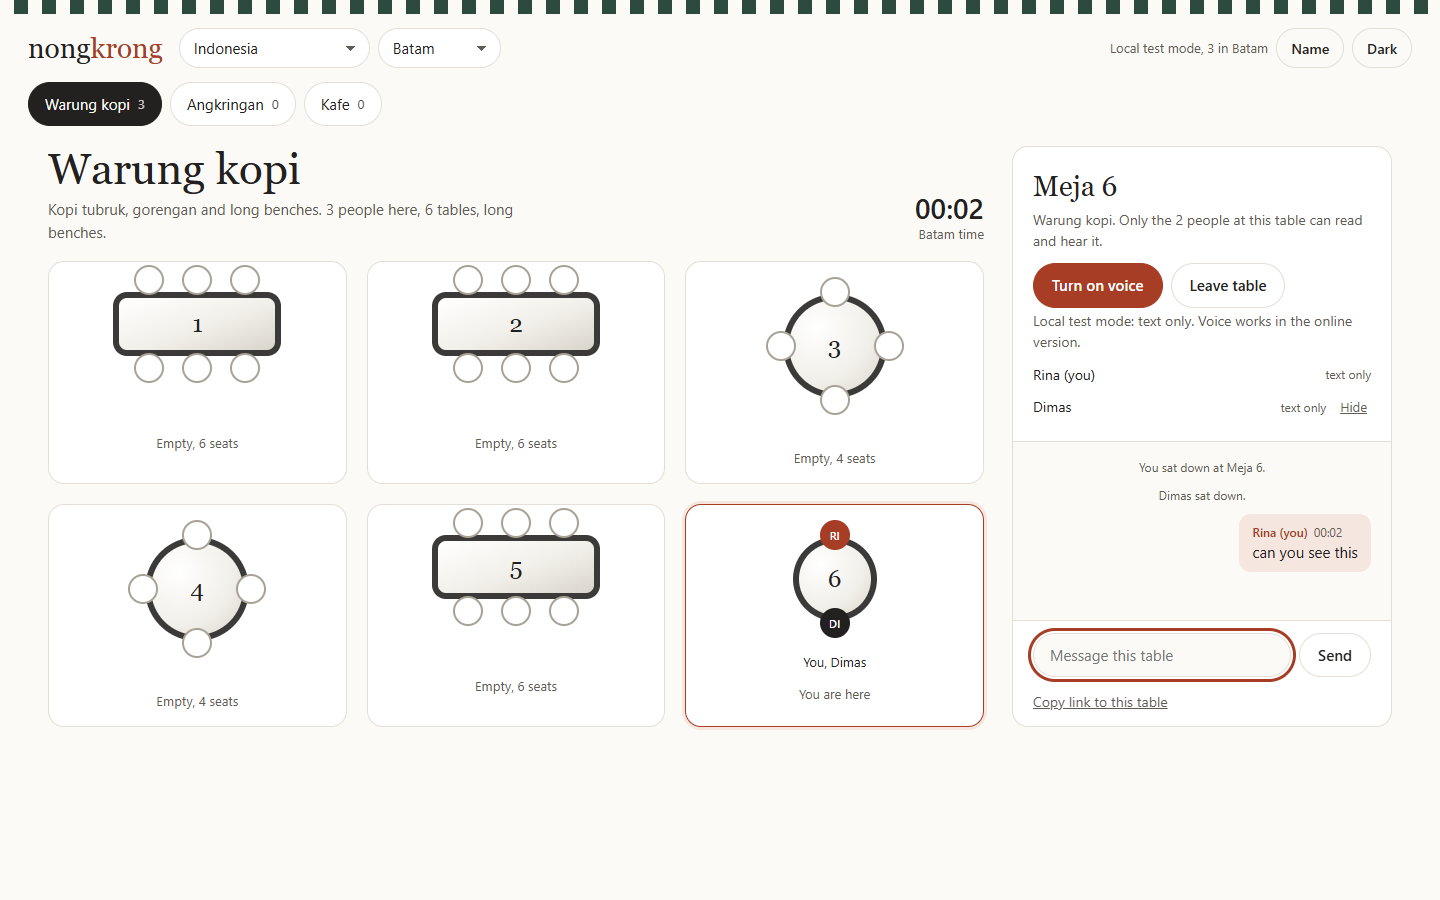
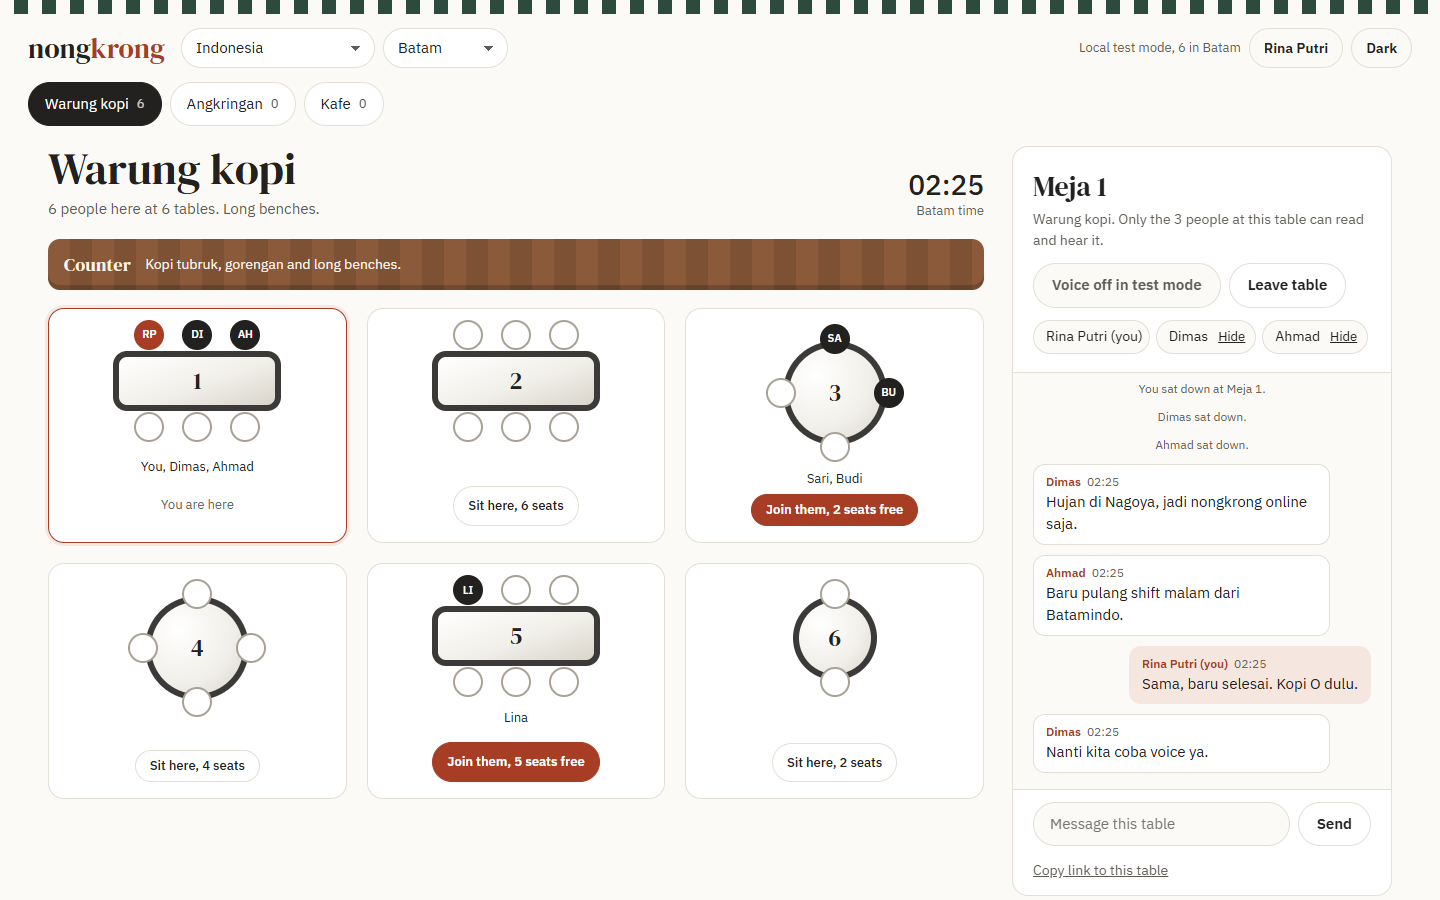
Hone the floor plan: join-vs-sit table actions, clearer voice state, compact phone header, relay warning

diff --git a/app.js b/app.js
@@ -1,5 +1,5 @@
 import { COUNTRIES, LAYOUTS, findCountry, findRegion, findVenue, tablesFor, guessPlace } from "./data.js";
-import { openRoom, myId, LOCAL } from "./net.js";
+import { openRoom, myId, LOCAL, relayHealth } from "./net.js";
 
 const $ = (selector) => document.querySelector(selector);
 
@@ -61,6 +61,7 @@ const timeIn = (tz) => {
   }
 };
 
+const startedAt = Date.now();
 let toastTimer = 0;
 function toast(text) {
   const el = $("#toast");
@@ -581,7 +582,11 @@ function renderTables() {
       : el("div", { class: "top-r", style: `width:${size.w}px;height:${size.w}px` }, el("b", { text: String(t.n) }));
 
     const freeCount = t.seats - sitters.length;
-    const cap = mine ? "You are here" : full ? "Full" : sitters.length === 0 ? `Empty, ${t.seats} seats` : `${freeCount} of ${t.seats} seats free`;
+    const hasCompany = sitters.length > 0;
+    const cap = mine ? "You are here"
+      : full ? "Full"
+      : hasCompany ? `Join them, ${freeCount} ${freeCount === 1 ? "seat" : "seats"} free`
+      : `Sit here, ${t.seats} seats`;
     const names = sitters.map(([id, p]) => (id === myId ? "You" : p.name)).join(", ");
     const label = `${tableName(t.n)}. ${cap}.${names ? " " + names + "." : ""}${mine ? " Open your table." : full ? "" : " Sit here."}`;
 
@@ -594,7 +599,7 @@ function renderTables() {
     }, [
       el("div", { class: "plate", style: `width:${plateSize.width}px;height:${plateSize.height}px` }, [top, ...stools]),
       el("div", { class: "names", text: names || "\u00a0" }),
-      el("div", { class: "cap", text: cap }),
+      el("div", { class: mine || full ? "cap" : hasCompany ? "cap free join" : "cap free", text: cap }),
     ]);
   });
   tablesEl.replaceChildren(...cards);
@@ -616,25 +621,27 @@ function renderPanel() {
     : `${venue().name}. Only the ${count} people at this table can read and hear it.`;
 
   const voiceBtn = $("#voiceBtn");
-  voiceBtn.textContent = state.voice.on ? "Turn off voice" : "Turn on voice";
-  voiceBtn.className = state.voice.on ? "btn on" : "btn primary";
+  voiceBtn.textContent = LOCAL ? "Voice off in test mode" : state.voice.on ? "Turn off voice" : "Turn on voice";
+  voiceBtn.className = LOCAL ? "btn" : state.voice.on ? "btn on" : "btn primary";
+  voiceBtn.disabled = LOCAL;
   voiceBtn.setAttribute("aria-pressed", String(state.voice.on));
   const muteBtn = $("#muteBtn");
   muteBtn.hidden = !state.voice.on;
   muteBtn.textContent = state.voice.muted ? "Unmute" : "Mute";
   muteBtn.setAttribute("aria-pressed", String(state.voice.muted));
   const note = $("#voiceNote");
-  note.hidden = !LOCAL;
-  note.textContent = LOCAL ? "Local test mode: text only. Voice works in the online version." : "";
+  note.hidden = true;
+  note.textContent = "";
+  voiceBtn.title = LOCAL ? "Open the normal link (without ?local=1) to talk by voice." : "";
 
   const list = $("#members");
   list.replaceChildren(...sitters.map(([id, p]) => {
     const isMe = id === myId;
-    const tag = p.voice ? "in voice" : "text only";
+    const tag = p.voice ? "in voice" : "";
     const blocked = state.blocked.has(id);
-    return el("li", {}, [
+    return el("li", { class: p.voice ? "in-voice" : null }, [
       el("span", { class: "who", text: isMe ? `${p.name} (you)` : p.name }),
-      el("span", { class: "tag", text: blocked ? "hidden" : tag }),
+      (blocked || tag) ? el("span", { class: "tag", text: blocked ? "hidden" : tag }) : null,
       isMe ? null : el("button", {
         type: "button",
         text: blocked ? "Show" : "Hide",
@@ -679,13 +686,18 @@ function renderIntro() {
   const here = everyone().filter(([, p]) => p.venue === v.id).length;
   const tables = tablesFor(v).length;
   $("#venueName").textContent = v.name;
-  $("#venueNote").textContent = `${v.note} ${here === 1 ? "Just you so far" : `${here} people here`}, ${tables} tables, ${LAYOUTS[v.layout].label.toLowerCase()}.`;
+  $("#venueNote").textContent = `${here === 1 ? "Just you so far" : `${here} people here`} at ${tables} tables. ${LAYOUTS[v.layout].label}.`;
+  $("#counterText").textContent = v.note;
   $("#clockLabel").textContent = reg.tz === "UTC" ? "UTC" : `${reg.name} time`;
   $("#clock").textContent = timeIn(reg.tz);
   document.title = `${v.name}, ${reg.name} - Nongkrong`;
   const total = everyone().length;
+  const health = relayHealth();
+  const blocked = !LOCAL && total === 1 && health.total > 0 && health.open === 0 && Date.now() - startedAt > 15000;
+  $("#status").dataset.level = blocked ? "warn" : "info";
   $("#status").textContent = LOCAL
     ? `Local test mode, ${total} in ${reg.name}`
+    : blocked ? "Can't reach the meeting relays. This network may block them."
     : total === 1 ? `Online, nobody else in ${reg.name} yet` : `Online, ${total} in ${reg.name}`;
   const hint = $("#hint");
   const alone = total === 1;
@@ -697,6 +709,7 @@ function render() {
   if (!state.country) {
     return;
   }
+  $("#nameBtn").textContent = state.name || "Name";
   renderVenues();
   renderIntro();
   renderTables();
@@ -861,6 +874,11 @@ function init() {
     }
   }, 15000);
   setInterval(() => announce(), 20000);
+  setInterval(() => {
+    if (state.country) {
+      renderIntro();
+    }
+  }, 5000);
 
   $("#country").value = place.country;
   fillRegions($("#region"), place.country, place.region);

diff --git a/app.css b/app.css
@@ -178,3 +178,56 @@ dialog p { margin: 0; color: var(--muted); }
 @media (max-width: 360px) {
   .two { grid-template-columns: minmax(0, 1fr); }
 }
+
+/* round 1: counter strip, sit affordance, compact table panel */
+.counter {
+  display: flex; align-items: center; gap: 14px; margin: 0 0 18px; padding: 12px 16px; border-radius: 12px;
+  background: repeating-linear-gradient(90deg, #8a5a3b 0 22px, #7d5134 22px 44px); color: #fbf3e8;
+  box-shadow: inset 0 -5px 0 rgba(0, 0, 0, .18);
+}
+.counter-label { font-family: "DM Serif Display", Georgia, serif; font-size: 18px; letter-spacing: .02em; flex: none; }
+#counterText { font-size: 14px; }
+.t .cap.free { color: var(--accent); font-weight: 600; }
+.t:not(.full):not(.mine):hover, .t:not(.full):not(.mine):focus-visible { border-color: var(--accent); }
+.members { display: flex; flex-wrap: wrap; gap: 6px; margin-top: 12px; }
+.members li { background: var(--bg); border: 1px solid var(--line); border-radius: 999px; padding: 2px 6px 2px 12px; gap: 6px; font-size: 14px; min-height: 32px; }
+.members li.in-voice { border-color: var(--tile); box-shadow: inset 0 0 0 1px var(--tile); }
+.members .who { flex: none; max-width: 160px; }
+.members .tag { font-size: 13px; }
+.members button { min-height: 28px; font-size: 13px; }
+.voice-note { font-size: 13px; margin: 8px 0 0; }
+.log { padding-top: 20px; }
+.status { font-size: 13px; }
+@media (max-width: 900px) {
+  .counter { margin-bottom: 12px; padding: 10px 12px; }
+  .counter-label { font-size: 16px; }
+  #counterText { font-size: 13px; }
+  .status { font-size: 13px; flex-basis: 100%; order: 3; }
+}
+
+/* hone v2: clearer next action, readable chip labels, compact phone header */
+.t .cap.free {
+  display: inline-flex; align-items: center; min-height: 32px; padding: 4px 14px;
+  border: 1.5px solid var(--accent); border-radius: 999px; background: var(--card);
+}
+.t:not(.full):not(.mine):hover .cap.free, .t:not(.full):not(.mine):focus-visible .cap.free { background: var(--accent); color: var(--accent-ink); }
+.members .tag { color: var(--ink); opacity: .72; }
+.members button { color: var(--ink); }
+.status[data-level="warn"] { color: var(--accent); font-weight: 600; }
+#voiceBtn:disabled { opacity: 1; color: var(--muted); background: var(--bg); }
+@media (max-width: 900px) {
+  .top { display: grid; grid-template-columns: minmax(0, 1fr) auto auto; gap: 10px 8px; align-items: center; }
+  .top-right { display: contents; }
+  .brand { grid-column: 1; grid-row: 1; }
+  #nameBtn { grid-column: 2; grid-row: 1; max-width: 132px; overflow: hidden; text-overflow: ellipsis; white-space: nowrap; }
+  #themeBtn { grid-column: 3; grid-row: 1; }
+  .place { grid-column: 1 / -1; grid-row: 2; display: grid; grid-template-columns: 1fr 1fr; }
+  .pill-select select { width: 100%; }
+  .status { grid-column: 1 / -1; grid-row: 3; margin: 0; }
+  .status:not([data-level="warn"]) { display: none; }
+}
+
+/* hone v3: one obvious next step - joining people outranks an empty table */
+.t .cap.free.join { background: var(--accent); color: var(--accent-ink); border-color: var(--accent); }
+.t:not(.full):not(.mine):hover .cap.free.join, .t:not(.full):not(.mine):focus-visible .cap.free.join { filter: brightness(.92); }
+.t .cap.free:not(.join) { border-color: var(--line); color: var(--ink); font-weight: 500; }

diff --git a/net.js b/net.js
@@ -4,7 +4,7 @@
 //  - local (?local=1): BroadcastChannel between tabs of one browser. Used by the tests
 //    and for trying the app alone. Text only, no voice.
 
-import { joinRoom as joinNostr, selfId as nostrSelfId } from "./vendor/trystero-nostr.mjs";
+import { joinRoom as joinNostr, selfId as nostrSelfId, getRelaySockets } from "./vendor/trystero-nostr.mjs";
 
 const APP_ID = "juw12-nongkrong-v1";
 const params = new URLSearchParams(location.search);
@@ -12,6 +12,15 @@ export const LOCAL = params.has("local");
 
 const randomId = () => Array.from(crypto.getRandomValues(new Uint8Array(10)), (b) => b.toString(36).padStart(2, "0")).join("").slice(0, 16);
 export const myId = LOCAL ? randomId() : nostrSelfId;
+
+// How many signalling relays this browser can reach right now (online mode only).
+export function relayHealth() {
+  if (LOCAL) {
+    return { open: 1, total: 1 };
+  }
+  const sockets = Object.values(getRelaySockets ? getRelaySockets() : {});
+  return { open: sockets.filter((s) => s.readyState === 1).length, total: sockets.length };
+}
 
 export function openRoom(roomId) {
   if (LOCAL) {

diff --git a/index.html b/index.html
@@ -34,7 +34,7 @@
   </div>
   <div class="top-right">
     <span id="status" class="status" aria-live="polite">Connecting</span>
-    <button id="nameBtn" class="btn ghost small" type="button">Name</button>
+    <button id="nameBtn" class="btn ghost small" type="button" aria-label="Change your name or city">Name</button>
     <button id="themeBtn" class="btn ghost small" type="button" aria-label="Switch colour theme">Dark</button>
   </div>
 </header>
@@ -55,6 +55,7 @@
       </div>
       <div class="clock"><b id="clock">--:--</b><span id="clockLabel">local time</span></div>
     </div>
+    <div class="counter" aria-label="About this place"><span class="counter-label">Counter</span><span id="counterText"></span></div>
     <div class="tables" id="tables"></div>
     <p class="hint" id="hint" hidden></p>
   </section>

diff --git a/sw.js b/sw.js
@@ -1,5 +1,5 @@
 // Keeps the app shell available offline. People and messages are never cached.
-const CACHE = "nongkrong-v1";
+const CACHE = "nongkrong-v2";
 const SHELL = ["./", "index.html", "app.css", "app.js", "data.js", "net.js", "vendor/trystero-nostr.mjs",
   "icon.svg", "icon-192.png", "icon-512.png", "manifest.webmanifest"];
 

diff --git a/tests/e2e_online.py b/tests/e2e_online.py
@@ -46,14 +46,14 @@ def main():
     results = {"region": region}
     errors = []
     with sync_playwright() as p:
-        browsers = []
+        try:
+            browser = p.chromium.launch(channel="chrome", args=args)
+        except Exception:
+            browser = p.chromium.launch(args=args)
+        browsers = [browser]
         pages = {}
         for name in ("Rina", "Dimas", "Sari"):
-            try:
-                browser = p.chromium.launch(channel="chrome", args=args)
-            except Exception:
-                browser = p.chromium.launch(args=args)
-            browsers.append(browser)
+            # Each context is a separate profile: no shared storage, no BroadcastChannel.
             context = browser.new_context(viewport={"width": 1280, "height": 860}, permissions=["microphone"])
             context.route("**/fonts.g*/**", lambda route: route.abort())
             # The test people sit in Anywhere > Open lounge for under a minute.
@@ -62,7 +62,8 @@ def main():
                 "localStorage.setItem('nk:place', JSON.stringify({country:'XX', region:'worldwide'}));" % json.dumps(name))
             page = context.new_page()
             page.on("pageerror", lambda exc, n=name: errors.append(f"{n}: {exc}"))
-            page.goto(url + "#XX/worldwide/lounge", wait_until="domcontentloaded", timeout=90000)
+            page.goto(url + "#XX/worldwide/lounge", wait_until="commit", timeout=90000)
+            page.wait_for_selector(".t", timeout=90000)
             pages[name] = page
         rina, dimas, sari = pages["Rina"], pages["Dimas"], pages["Sari"]
 

diff --git a/README.md b/README.md
@@ -11,6 +11,8 @@ sits where. Text chat and voice stay inside the table.
 
 ![Nongkrong floor plan with a table open](docs/screenshot.png)
 
+<img src="docs/phone.png" alt="Nongkrong on a phone, seated at Meja 1" width="300">
+
 ## What it does
 
 - **23 countries plus "Anywhere", 107 cities and regions, 69 places.** Each place type comes from the local
